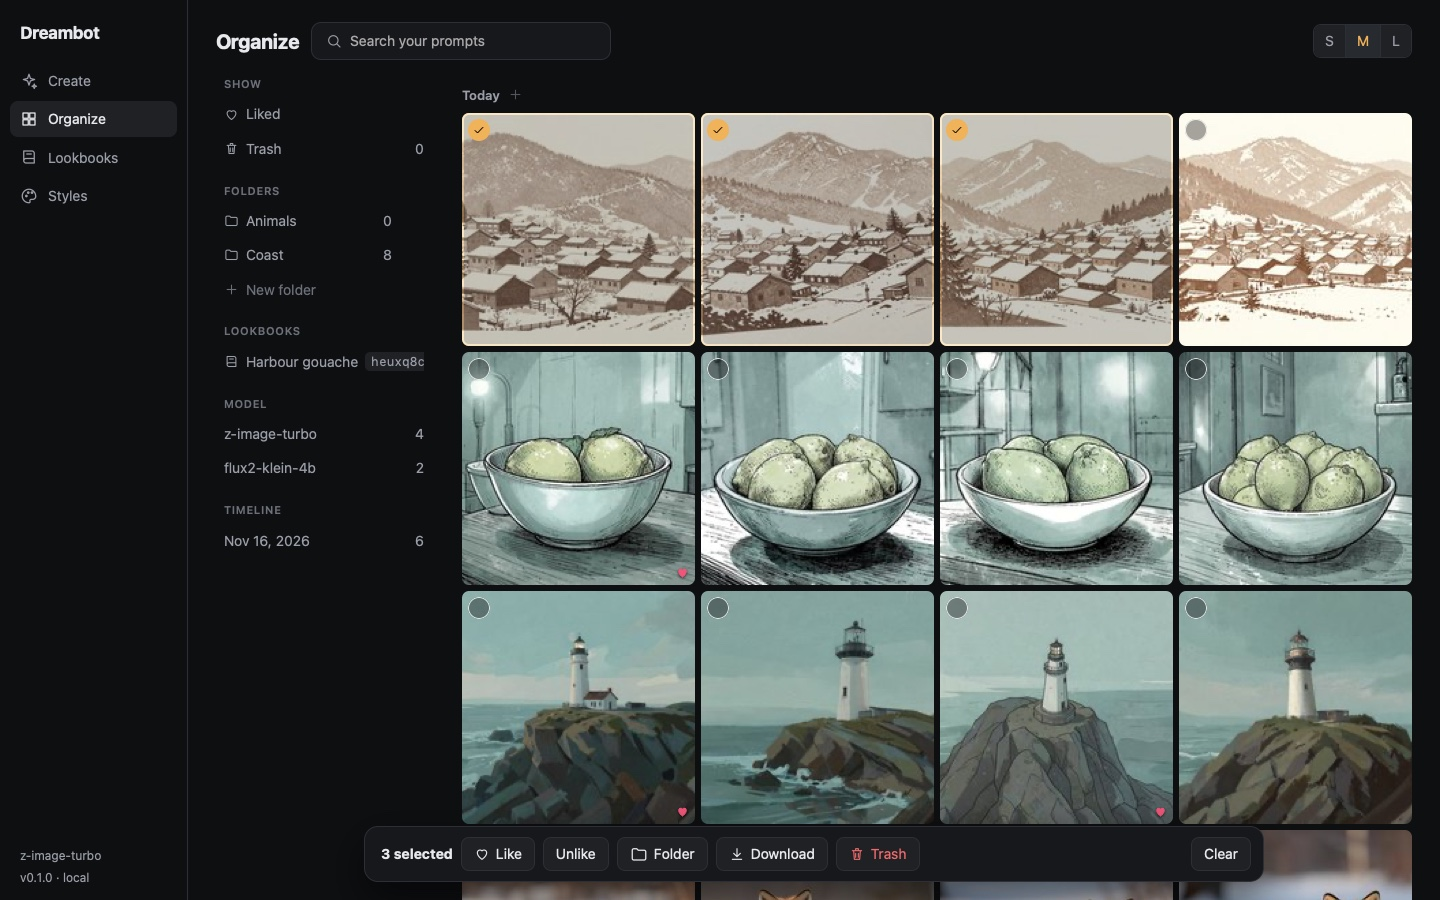
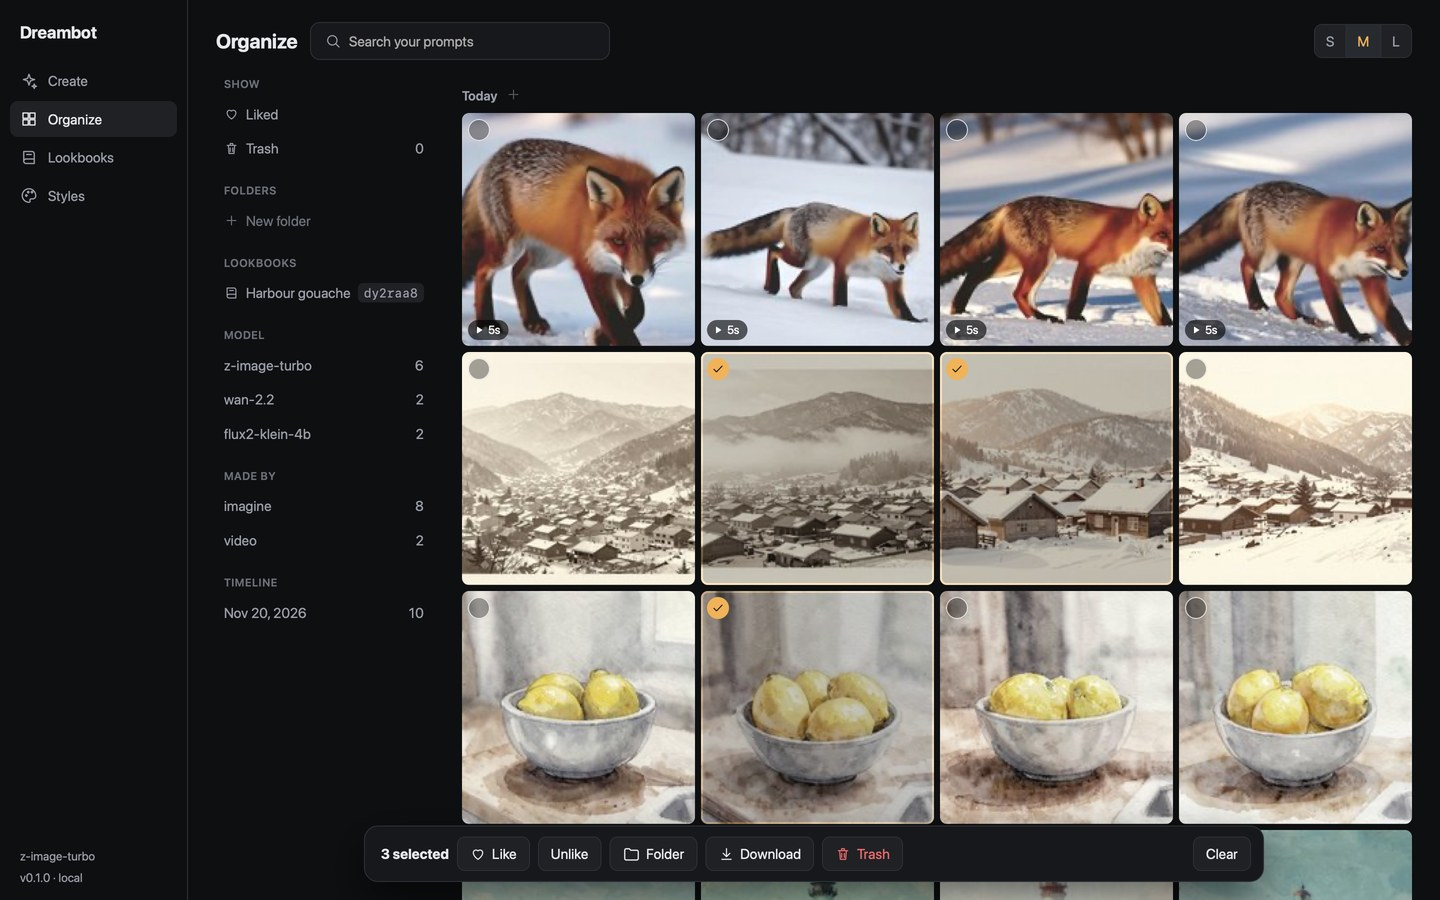
README: the web app's screenshots with video in them
Create, the prompt bar, the lightbox and Organize were photographed before the LoRA and Video
buttons, Retexture and Animate Image. Retaken on real weights with the interface as it is now:
four videos of one prompt at the top of the feed, the settings for video, Animate Image in a
picture's lightbox, and videos in Organize. The lightbox's is 1440x1080, so that all of its
panel is in it; the others are 1440x900 as before.

The Create page's description names the settings for video and one drop zone for a starting
frame (there is no ending frame), and what is verified gains the two checks behind the fixes in
the commit before this one.

Claude-Session: https://claude.ai/code/session_0124vNVVE2zAjdh4hinFLHoa

diff --git a/README.md b/README.md
@@ -16,10 +16,10 @@ you:       animate 2     → image 2 set in motion: four five-second videos
 No account, no subscription, no cloud. Prompts and images never leave the Mac except through the chat
 app you choose to talk to it with.
 
-![The web app's Create page: a prompt bar above a feed of image grids, each with its prompt, parameters and style](docs/screenshots/create.jpg)
+![The web app's Create page: a prompt bar above a feed, four videos of one prompt and then grids of four images, each with its prompt, parameters and style](docs/screenshots/create.jpg)
 
-*The [web app](#web-app). From the top: a style code, two style references blended one to two, a
-Lookbook, and a plain prompt.*
+*The [web app](#web-app). From the top: four videos of one prompt, a style code, two style references
+blended one to two, and a Lookbook.*
 
 > **Status: early (0.1).** The core, the command line and the image pipeline are verified on real models,
 > and all three bots (Telegram, Discord and iMessage) have been used on the live services. Not every
@@ -576,7 +576,7 @@ Midjourney's website, for one Mac: <http://127.0.0.1:7373/>.
 
 | Page | What is there |
 | --- | --- |
-| **Create** | The prompt bar, with drop zones for an image prompt, a style reference and a subject reference; an uploads library; settings (shape, model, stylize, variety, weirdness, raw, HD); the **P** button; the **LoRA** button, to give every prompt a fine-tuned look; the **Video** button, which makes the prompt a [video](#video) and the drop zones its starting and ending frames. Below it, everything that has been made, newest first, with jobs drawing themselves as they run and videos appearing one by one. A video plays while the pointer is over it; with ⌘ or Ctrl held, moving across one scrubs every video of its prompt together. |
+| **Create** | The prompt bar, with drop zones for an image prompt, a style reference and a subject reference; an uploads library; settings (shape, model, stylize, variety, weirdness, raw, HD, and for videos how many, at what resolution and what one from words starts on); the **P** button; the **LoRA** button, to give every prompt a fine-tuned look; the **Video** button, which makes the prompt a [video](#video) and the drop zone its starting frame. Below it, everything that has been made, newest first, with jobs drawing themselves as they run and videos appearing one by one. A video plays while the pointer is over it; with ⌘ or Ctrl held, moving across one scrubs every video of its prompt together. |
 | **Lightbox** | Click an image: vary (subtle, strong, remix), retexture (the same picture in a LoRA's look), upscale (subtle, creative), zoom, pan, make square, animate (auto, as a loop, or manually through the prompt bar), edit, rerun, describe; copy the prompt, seed or job id; download; like; file it in a folder or a Lookbook; use it in the next prompt. A video plays here, with Extend Video beside it (auto, or manually through the prompt bar) and a download as video or GIF. ← → move through the feed. |
 | **Organize** | Every image and video, to search and to filter by liked, model, kind of job, Lookbook, folder and day. Select many (shift-click for a range) to like, trash, file or download as a zip. Trash only hides. |
 | **Lookbooks** | Make, fill, rename and delete Lookbooks; choose your defaults; see what Dreambot reads in a book. |
@@ -584,9 +584,9 @@ Midjourney's website, for one Mac: <http://127.0.0.1:7373/>.
 
 | | |
 | --- | --- |
-| ![The prompt bar with two style references, each with a weight, and the settings panel open](docs/screenshots/prompt-bar.jpg) | ![The lightbox: one image large, with its style and every action beside it](docs/screenshots/lightbox.jpg) |
+| ![The prompt bar with two style references, each with a weight, and the settings panel open, the settings for video among them](docs/screenshots/prompt-bar.jpg) | ![The lightbox: one image large, with its style and every action beside it, down to Animate Image and the ways to use it in a prompt](docs/screenshots/lightbox.jpg) |
 | The prompt bar, with two weighted style references and the settings open | The lightbox |
-| ![Organize: a gallery with three images selected, and filters, folders and a timeline on the left](docs/screenshots/organize.jpg) | ![Styles: a grid of style cards, each a palette with a name, a code and a description](docs/screenshots/styles.jpg) |
+| ![Organize: a gallery of videos and images with three images selected, and filters, folders and a timeline on the left](docs/screenshots/organize.jpg) | ![Styles: a grid of style cards, each a palette with a name, a code and a description](docs/screenshots/styles.jpg) |
 | Organize, with three images selected | Styles, searched for "watercolor" |
 
 Pictures made from iMessage, Discord and Telegram appear in it too: there is one database. When the
@@ -782,7 +782,7 @@ port = 7373
 | Blending by weight | real weights, two prompts: the same two references at 3:1, 1:1 and 1:3 give a visible progression from one style to the other; a style code with a picture gives a plausible mix. More than two references: automated tests only |
 | What the vision model says about a style | nine real images. It names a medium and five short phrases, drops the labels about half the time (the parser then reads by position), and calls most generated images "digital painting". Asked to fuse two styles into one, it joined their phrases with "and" or copied the worked example, so blending is done by rule |
 | Lookbooks | real weights: a four-picture book gave each image of a grid a different lead and a visibly different look; a one-picture book at `--stylize` 0, 20, 100 and 400 gave no look, a touch, the look, and more of it. With a book whose lead was photograph-like the three strengths looked alike, because the look was already close to the model's own. Larger books, several books at once, the `liked` book: automated tests only |
-| Video | real weights (Wan 2.2 TI2V-5B as FastVideo's FastMetal-5B-QAD, with the umT5 text encoder that comes with it and TAEHV for its frames; Z-Image Turbo for the pictures and Qwen2.5-VL 7B as the director; on an M5 Ultra with 96 GB), through the service, every video with a seed of its own. **The engine** is Dreambot's own code, checked against numbers from FastVideo's MLX runtime, which is what these weights were made to run under (`tests/test_wan.py`): one pass of the transformer, with and without a clean first frame, gave the same numbers to the last digit; the autoencoder's frames were the same to the level, decoded a few at a time as they are here or all at once; the text encoder read a prompt to the fifth decimal of the reference with the same copy of its weights, and 0.02 away at most (on numbers 0.07 in size) with the copy that ships with this model, which is rounded more coarsely. Decoding a clip all at once, as the reference runtime does, took its process to 75 to 84 GB; a few frames at a time it stays under 10. **From words**: one prompt, *two polar bears fighting in the octagon*, both ways. A picture drawn first, four videos at low motion and four at high: two polar bears in the cage or on the mat that was drawn, in all eight. The words alone, four videos: two polar bears wrestling in all four, in a boxing ring in two and against a blue wall in two. **Animate**: five pictures of different kinds (two hikers in a wide landscape, a portrait, a lake, a cat, a watercolour fox), two videos each at low and at high motion, with the director: all twenty moved coherently (see [Video](#video)). **Low and high motion**: told in words alone to hold the camera still (five wordings, two videos each, on the hikers) the model moved in on them every time; started from the picture held still under the noise, it kept the frame in all ten low-motion videos of the twenty above. How much of the start is noise was settled on the fight: at 0.94 the bears touched noses, at 0.97 (which is used) they tussled where they stood, at 0.985 the frame began to wander. **What the video model is told about its picture**: with the director's line alone, two videos of four of a lighthouse had something in front of it that was not there (a hand with a glass of water, a hand with a camera); with the picture's own prompt before the line, one of four (sea birds flying close past). **Colours**: uncorrected, the white of two bears had gone yellow by the end of five seconds and the colours' spread had doubled; corrected once, from the first frames, it still went; corrected frame by frame, it held, on that video and on the twenty above. **Extend**: holding the video's last frame alone, the new part started from rest; holding its last five frames it went on moving (with nine, the first new frame came out blurred). One video continued four ways at once, and a cat continued twice (5 s to 9 s to 13 s, the second with words and at high motion: it stepped down from the sill). The frames a video had were the same to the pixel after it was extended. At the joint of the cat's quiet video the picture changed about twice as much from one frame to the next as it did after, and what was added was crisper. **An ending frame**: four videos held to a picture at their end, two of them with a starting picture as well: all four cut to it in the last five frames, so it is not offered. **Loops**: two (a lighthouse, the cat): both moved and came back to their first frame. **Also run**: words of one's own at low and at high motion; `--from words`; other shapes (480×832, 608×608, 736×544) and lengths (two, three and four seconds); `--hd` (1248×704, 24 s a video against 8); stopping a video part-way (2.5 s). Times, model loaded: about ten seconds for five seconds of 832×480, nine or ten to add four seconds to a video, six for a loop; four videos from one prompt of words in 82 to 86 s (the four pictures were there after 40 s, and a video followed every 10 s), four from the words alone in 44 s. The worker's memory peaked at 30 GB, with the picture model, the vision model and the video model loaded. **The web app**, in WebKit, on real weights: a prompt of words with the Video button made four videos in 86 s, each shown by its picture until it was made (two were made after 67 s); a video was opened in the lightbox; a picture was sent to the prompt bar with *Animate manually…* (one box, for a starting frame) and a video with *Extend manually…* (no picture can be added, and Loop is off). On the stand-in backend, in WebKit, the rest of the controls: animating from a tile, Animate Image (loop, and manually with words and a length), Extend manually with words, *Picture first* and *Words alone*, hover to play, ⌘ to scrub four videos together, the downloads (a GIF came back as a GIF), and the three video settings. **Not run**: any Mac with less memory (below 32 GB the transformer makes way for the text encoder while a prompt is read, and none of that has been exercised); a starting frame that is a photograph of one's own (every one here was a picture Dreambot made); a video extended past 13 seconds, or extended in HD; a picture model other than Z-Image Turbo for the pictures, and style references, Lookbooks and LoRAs in a video prompt (automated tests only); a director other than Qwen2.5-VL 7B. Videos in Telegram, Discord and iMessage: automated tests with stand-ins for the services, **not sent on the live ones** |
+| Video | real weights (Wan 2.2 TI2V-5B as FastVideo's FastMetal-5B-QAD, with the umT5 text encoder that comes with it and TAEHV for its frames; Z-Image Turbo for the pictures and Qwen2.5-VL 7B as the director; on an M5 Ultra with 96 GB), through the service, every video with a seed of its own. **The engine** is Dreambot's own code, checked against numbers from FastVideo's MLX runtime, which is what these weights were made to run under (`tests/test_wan.py`): one pass of the transformer, with and without a clean first frame, gave the same numbers to the last digit; the autoencoder's frames were the same to the level, decoded a few at a time as they are here or all at once; the text encoder read a prompt to the fifth decimal of the reference with the same copy of its weights, and 0.02 away at most (on numbers 0.07 in size) with the copy that ships with this model, which is rounded more coarsely. Decoding a clip all at once, as the reference runtime does, took its process to 75 to 84 GB; a few frames at a time it stays under 10. **From words**: one prompt, *two polar bears fighting in the octagon*, both ways. A picture drawn first, four videos at low motion and four at high: two polar bears in the cage or on the mat that was drawn, in all eight. The words alone, four videos: two polar bears wrestling in all four, in a boxing ring in two and against a blue wall in two. **Animate**: five pictures of different kinds (two hikers in a wide landscape, a portrait, a lake, a cat, a watercolour fox), two videos each at low and at high motion, with the director: all twenty moved coherently (see [Video](#video)). **Low and high motion**: told in words alone to hold the camera still (five wordings, two videos each, on the hikers) the model moved in on them every time; started from the picture held still under the noise, it kept the frame in all ten low-motion videos of the twenty above. How much of the start is noise was settled on the fight: at 0.94 the bears touched noses, at 0.97 (which is used) they tussled where they stood, at 0.985 the frame began to wander. **What the video model is told about its picture**: with the director's line alone, two videos of four of a lighthouse had something in front of it that was not there (a hand with a glass of water, a hand with a camera); with the picture's own prompt before the line, one of four (sea birds flying close past). **Colours**: uncorrected, the white of two bears had gone yellow by the end of five seconds and the colours' spread had doubled; corrected once, from the first frames, it still went; corrected frame by frame, it held, on that video and on the twenty above. **Extend**: holding the video's last frame alone, the new part started from rest; holding its last five frames it went on moving (with nine, the first new frame came out blurred). One video continued four ways at once, and a cat continued twice (5 s to 9 s to 13 s, the second with words and at high motion: it stepped down from the sill). The frames a video had were the same to the pixel after it was extended. At the joint of the cat's quiet video the picture changed about twice as much from one frame to the next as it did after, and what was added was crisper. **An ending frame**: four videos held to a picture at their end, two of them with a starting picture as well: all four cut to it in the last five frames, so it is not offered. **Loops**: two (a lighthouse, the cat): both moved and came back to their first frame. **Also run**: words of one's own at low and at high motion; `--from words`; other shapes (480×832, 608×608, 736×544) and lengths (two, three and four seconds); `--hd` (1248×704, 24 s a video against 8); stopping a video part-way (2.5 s). Times, model loaded: about ten seconds for five seconds of 832×480, nine or ten to add four seconds to a video, six for a loop; four videos from one prompt of words in 82 to 86 s (the four pictures were there after 40 s, and a video followed every 10 s), four from the words alone in 44 s. The worker's memory peaked at 30 GB, with the picture model, the vision model and the video model loaded. **The web app**, in WebKit, on real weights: a prompt of words with the Video button made four videos in 86 s, each shown by its picture until it was made (two were made after 67 s); a video was opened in the lightbox; a picture was sent to the prompt bar with *Animate manually…* (one box, for a starting frame) and a video with *Extend manually…* (no picture can be added, and Loop is off). A prompt of four pictures and one of four videos were made with the page open: the pictures came up together when their job was done and the videos one by one, none of them broken (at first the page drew a running job's pictures too, before they are kept where they are served from, and three of four stayed broken until the page was reloaded). A picture's lightbox that holds more than fits in the window, as it does at 900 pixels high with a style and the Animate Image group, kept its prompt and scrolled to its last button (the prompt's line had been given no height). On the stand-in backend, in WebKit, the rest of the controls: animating from a tile, Animate Image (loop, and manually with words and a length), Extend manually with words, *Picture first* and *Words alone*, hover to play, ⌘ to scrub four videos together, the downloads (a GIF came back as a GIF), and the three video settings. **Not run**: any Mac with less memory (below 32 GB the transformer makes way for the text encoder while a prompt is read, and none of that has been exercised); a starting frame that is a photograph of one's own (every one here was a picture Dreambot made); a video extended past 13 seconds, or extended in HD; a picture model other than Z-Image Turbo for the pictures, and style references, Lookbooks and LoRAs in a video prompt (automated tests only); a director other than Qwen2.5-VL 7B. Videos in Telegram, Discord and iMessage: automated tests with stand-ins for the services, **not sent on the live ones** |
 | Web app | every route against the real service on the stand-in backend (automated, including who is let in); the pages driven end to end in WebKit, the engine Safari uses, on the stand-in backend, and one real job with a Lookbook. **Not tried** in Safari itself, Chrome or Firefox, nor on a phone |
 | `/looks` and `look: <name>` from the chat apps | automated tests through the shared command layer; **not run on the live services** |
 | The other 46 models | class paths, arguments and defaults checked against mflux; **not run** (weights not installed during development) |
